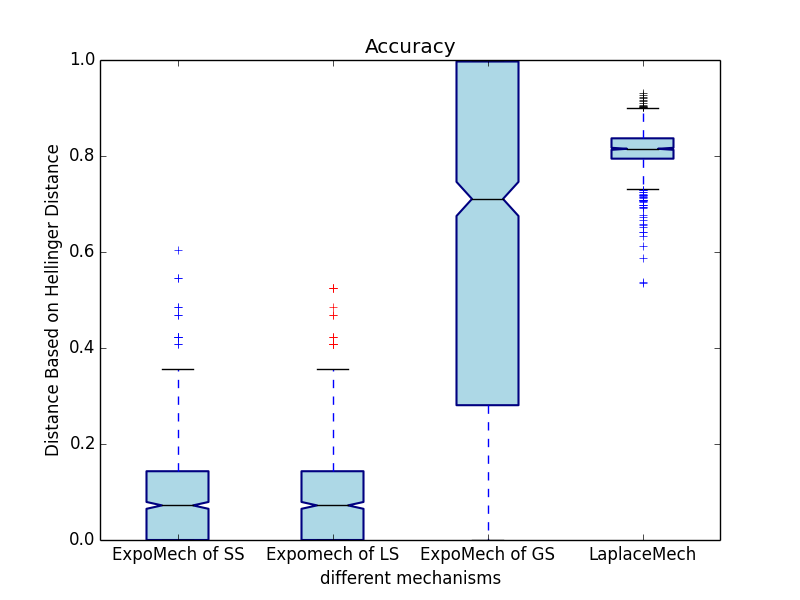
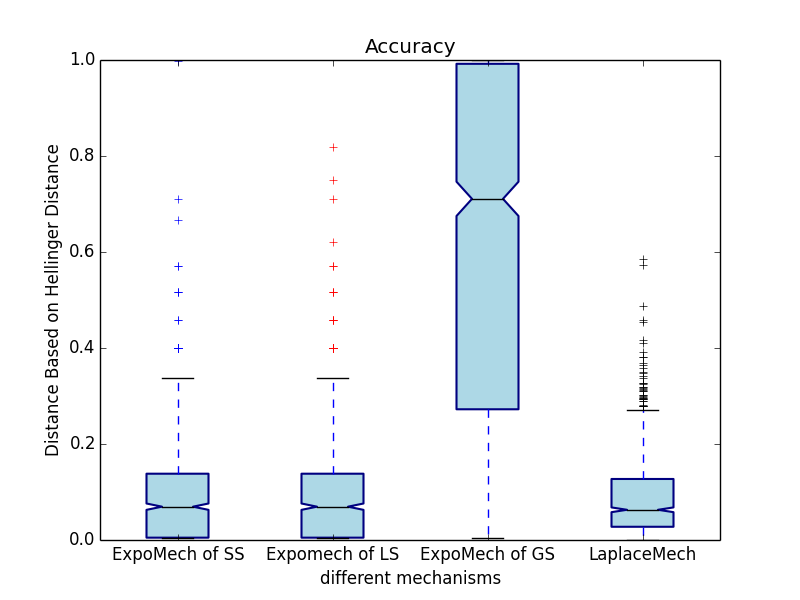
update accuracy study

diff --git a/dp_bayesian_inference_model_with_beta_prior.py b/dp_bayesian_inference_model_with_beta_prior.py
@@ -120,6 +120,10 @@ class BayesInferwithBetaPrior(object):
 		self._bias = bias
 		self._update_observation()
 
+	def _set_observation(self, alpha, beta):
+		self._posterior = Beta_Distribution(self._prior._alpha + alpha, self._prior._alpha + beta)
+
+
 	def _update_observation(self):
 		self._observation = numpy.random.binomial(1, self._bias, self._sample_size)
 		self._posterior = Beta_Distribution(prior._alpha + numpy.count_nonzero(self._observation == 1),\
@@ -160,7 +164,8 @@ class BayesInferwithBetaPrior(object):
 		print "Calculating Smooth Sensitivity with Hamming Distance....."
 		start = time.clock()
 		beta = math.log(1 - self._epsilon / (2.0 * math.log(self._delta / (2 (n + 1)))))
-		self._SS_Hamming = max([self._LS_Candidates[r] * math.exp(- beta * Hamming_Distance(self._posterior, r)) for r in self._candidates])
+		# self._SS_Hamming = max([self._LS_Candidates[r] * math.exp(- beta * Hamming_Distance(self._posterior, r)) for r in self._candidates])
+		self._SS_Hamming = self._LS
 		key3 = "(" + str(self._epsilon / 2.0) + "," + str(beta) + ") Admissible Niose and " + str(beta) + "-Smooth Sensitivity (" + str(self._SS_Laplace) + ")|(" + str(self._epsilon) + "," + str(self._delta) + ")-DP"
 		self._accuracy[key3] = []
 		self._keys.append(key3)
@@ -342,7 +347,24 @@ class BayesInferwithBetaPrior(object):
 				return
 			outpro = outpro - scores[r]/sum_score
 			self._exponential_posterior = Beta_Distribution(self._prior._alpha + r, self._prior._beta + self._sample_size - r)	
+		
 		return
+
+	def _get_nomalizor():
+		self._set_LS()
+		self._set_SS
+		R = range(self._sample_size + 1)# [(j + 1, i + 1) for i in range(self._sample_size) for j in range(self._sample_size)]
+		scores = {}
+		sum_score = 0.0
+		#delta = math.sqrt( (1 - math.pi/4.0))
+		# print self._posterior._alpha,self._posterior._beta
+		delta = self._SS_Hamming
+		print delta
+		for r in R:
+			scores[r] = math.exp(self._epsilon * self._scores[r]/(delta))
+			# print scores(r)
+			sum_score = sum_score + scores[r]
+		return sum_score
 
 	def _experiments(self, times):
 		self._set_candidate_scores()
@@ -468,10 +490,20 @@ def draw_error(errors, model):
 if __name__ == "__main__":
 	# Tests the functioning of the module
 
-	sample_size = 200
-	epsilon = 1
-	prior = Beta_Distribution(4, 4)
+	sample_size = 98
+	epsilon = 0.8
+	prior = Beta_Distribution(1, 1)
 	Bayesian_Model = BayesInferwithBetaPrior(prior, sample_size, epsilon)
+	Bayesian_Model._set_observation(49,49)
+
+	Bayesian_Model._set_candidate_scores()
+	N = Bayesian_Model._get_nomalizor()
+	c = 0.5
+	p = 99 * math.exp(- 0.8 * 0.5 /(2 * Bayesian_Model._SS_Hamming))/N
+	print N
+
+
+
 
 	# draw_distribution([list(numpy.random.beta(alpha + Bayesian_Model._get_ones(),\
 	# beta + Bayesian_Model._get_zeros(), 1000)), \
@@ -492,33 +524,21 @@ if __name__ == "__main__":
 	# 	[" Bayesian Inferred Posterior","Randomized Response Posterior",\
 	# 	"(" + str(epsilon) + ", 0) - DP Posterior Using Laplace Mechanism",\
 	# 	"Exponential Mechanism Posterior"])
-	Bayesian_Model._set_bias(0.4)
+	# Bayesian_Model._set_bias(0.4)
 	#Bayesian_Model._experiments(200)
 
-	#draw_error(Bayesian_Model._accuracy,Bayesian_Model)
-	# draw_error_average(Bayesian_Model._average)
-	print Beta_Distribution(100,100) - Beta_Distribution(99, 101)
-	f = Beta_Distribution(100,100) - Beta_Distribution(99, 101)
-	# print Beta_Distribution(35,35) - Beta_Distribution(36, 35)
-	# print Beta_Distribution(35,35) - Beta_Distribution(36, 36)
 
-	#print Beta_Distribution(150,1) - Beta_Distribution(149, 2)
-	#print Beta_Distribution(170,1) - Beta_Distribution(169, 2)
-	#print Beta_Distribution(51,50) - Beta_Distribution(50, 51)
-	#print Beta_Distribution(70,71) - Beta_Distribution(71, 70)
-	#print Beta_Distribution(80,81) - Beta_Distribution(81, 80)
-	#print Beta_Distribution(500,5) - Beta_Distribution(499, 2)
-	#print math.gamma(45.5), 89.0/2 * math.gamma(89.0/2)
-	a = beta_function_naive(100 + math.log(1./0.05) * math.sqrt(1 - math.pi/4)/2.0, 100 - math.log(1./0.05) * math.sqrt(1 - math.pi/4)/2.0)
+	# a = beta_function_naive(50 + math.log(1./0.05) * math.sqrt(1 - math.pi/4)/2.0, 50 - math.log(1./0.05) * math.sqrt(1 - math.pi/4)/2.0)
 	
-	b = beta_function_naive(100,100)
+	# b = beta_function_naive(50,50)
 
-	c = beta_function_naive(100 + math.log(1./0.05) * math.sqrt(1 - math.pi/4), 100 - math.log(1./0.05) * math.sqrt(1 - math.pi/4))
+	# c = beta_function_naive(50 + math.log(1./0.05) * math.sqrt(1 - math.pi/4), 50 - math.log(1./0.05) * math.sqrt(1 - math.pi/4))
 
-	d = -math.sqrt(1 - (a/math.sqrt(b * c)))
+	# d = -math.sqrt(1 - (a/math.sqrt(b * c)))
 
-	e = 199.0 * math.exp(0.8 * d / (2 * f))
+	# t = math.exp(- 7.5/math.sqrt(1 - math.pi/4))
 
-	print d,e
+	
+
 	
 
